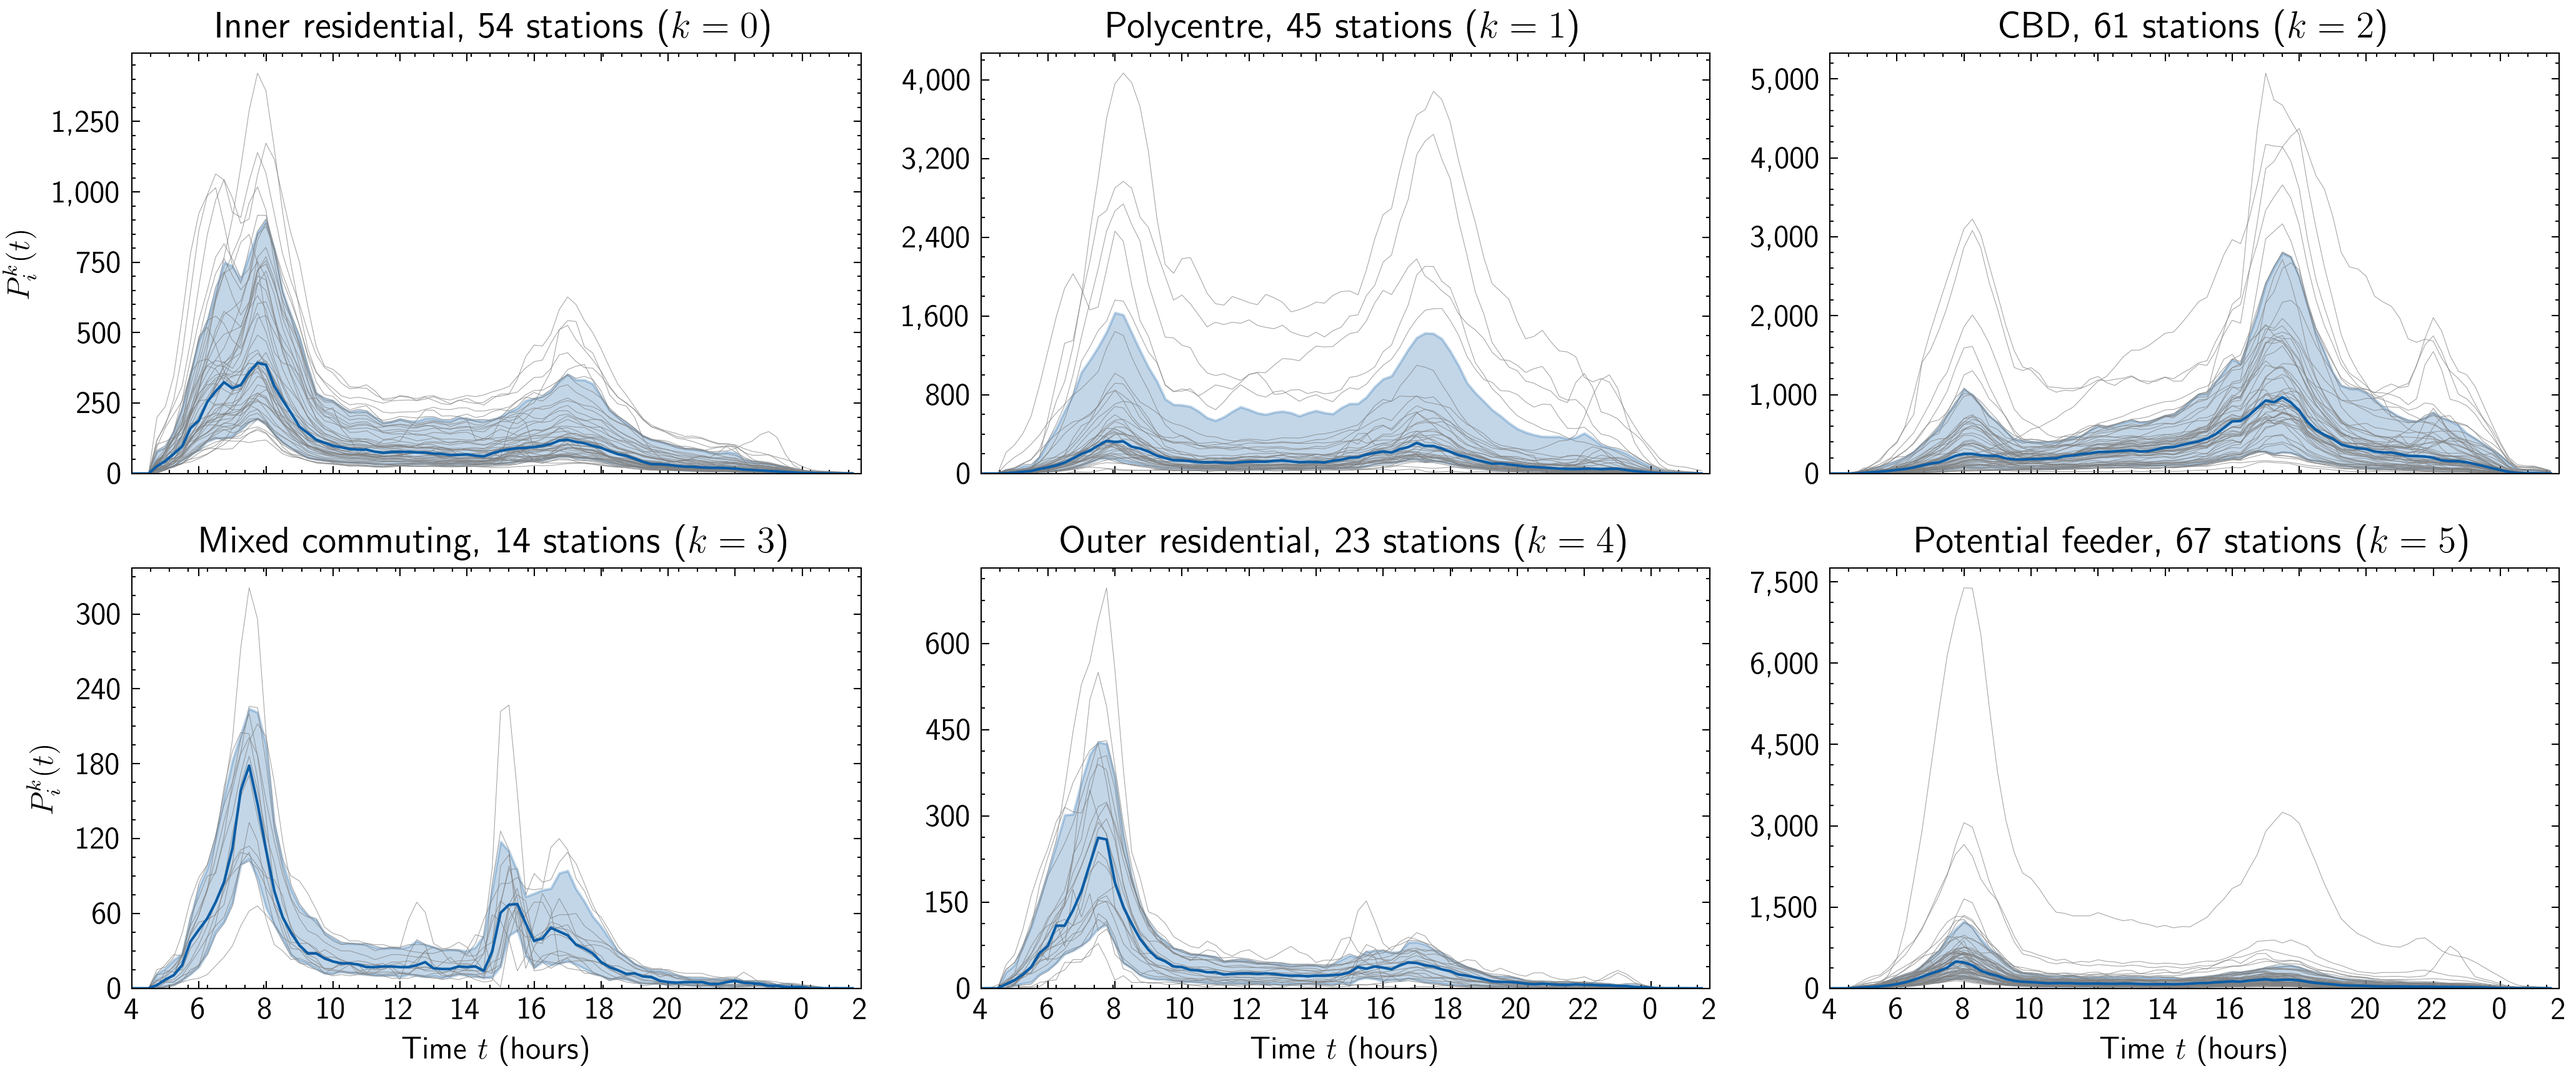
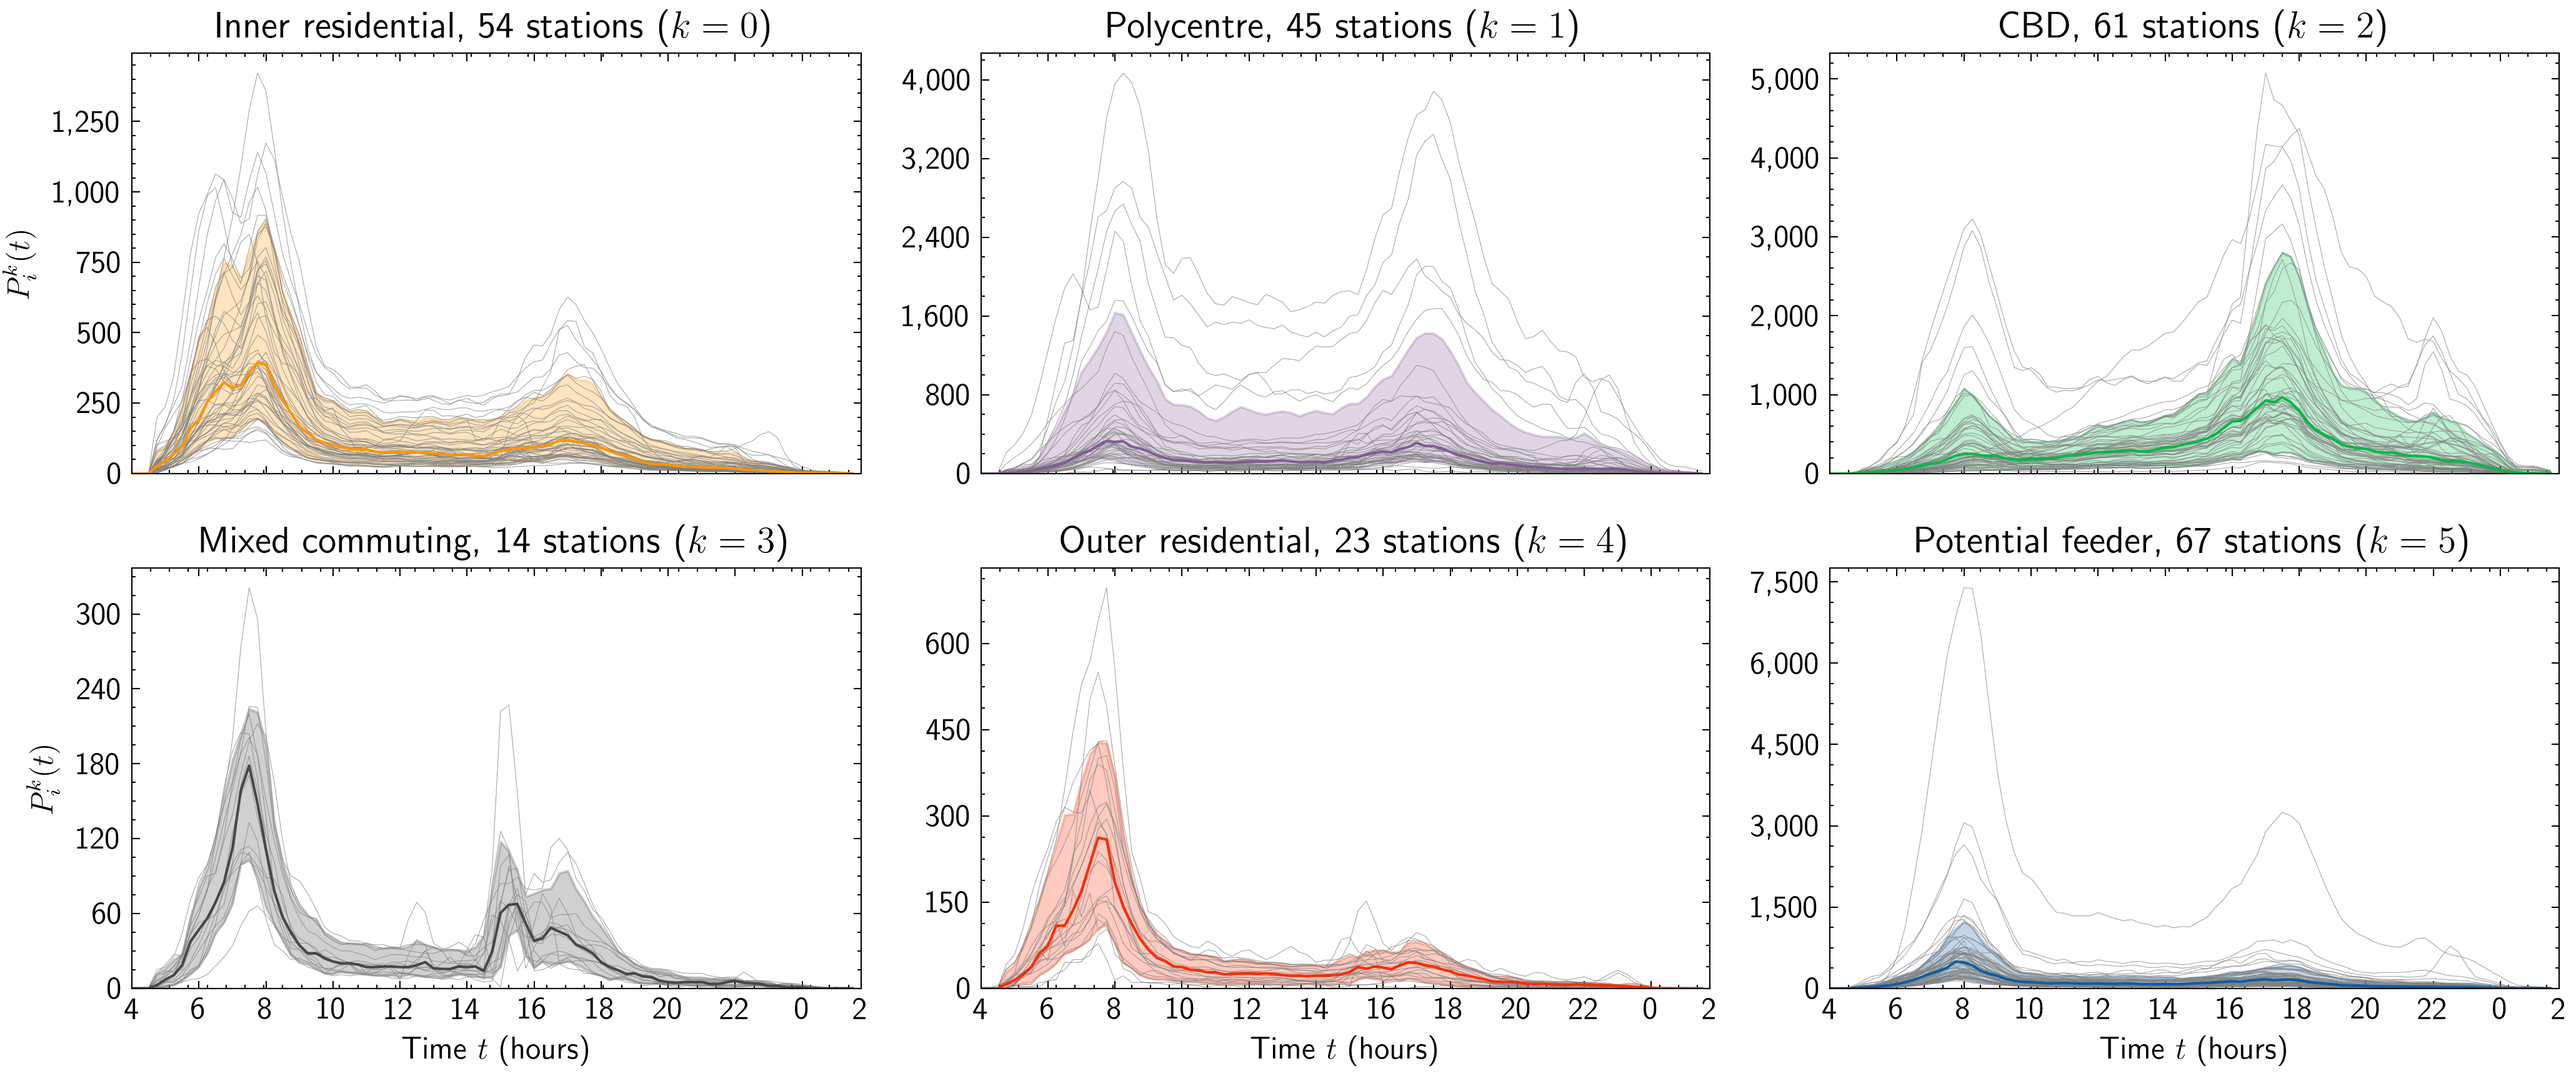
Update figures

diff --git a/src/visualization/visualize.py b/src/visualization/visualize.py
@@ -107,9 +107,14 @@ def plot_counts(gdf, labels, n_components, label_names=None, figsize=(18,8), plo
     '''
     
     result = pd.DataFrame(gdf.loc[:,'0200-0215':'0145-0200'])
+    result['label_name'] = gdf['label_name']
 
     # Assign the cluster labels
     result['labels'] = labels
+    
+    label_names = ["Inner residential", "Polycentre", "CBD", "Mixed commuting", "Outer residential", "Potential feeder"]
+    label_color_map = {"Outer residential": "#FF2C00", "CBD": "#00B945", "Polycentre": "#845B97", 
+                       "Inner residential": "#FF9500", "Potential feeder": "#0C5DA5", "Mixed commuting": "#474747"}
     
     # Plot the results
     ncols = 3
@@ -119,7 +124,9 @@ def plot_counts(gdf, labels, n_components, label_names=None, figsize=(18,8), plo
     for i in range(0, nrows):
         for j in range(0, ncols):
             # Select stations of a certain cluster
-            df = result[result["labels"] == k].drop("labels", axis=1).T
+            df = result[result["labels"] == k]
+            current_label_name = df[df['labels'] == k]['label_name'].iloc[0]
+            df = df.drop(["labels", 'label_name'], axis=1).T
             
             # Plot it
             # With median
@@ -128,8 +135,8 @@ def plot_counts(gdf, labels, n_components, label_names=None, figsize=(18,8), plo
                 median = df.T.median()
                 q1 = df.T.quantile(0.1)
                 q3 = df.T.quantile(0.9)
-                ax[i, j].plot(median.index, median, color='#0C5DA5', linewidth=1)
-                ax[i, j].fill_between(median.index, q1, q3, color='#0C5DA5', alpha=0.25)
+                ax[i, j].plot(median.index, median, color=label_color_map[current_label_name], linewidth=1)
+                ax[i, j].fill_between(median.index, q1, q3, color=label_color_map[current_label_name], alpha=0.25)
             
             # Without
             else:

diff --git a/setup.py b/setup.py
@@ -1,0 +1,10 @@
+from setuptools import find_packages, setup
+
+setup(
+    name='src',
+    packages=find_packages(),
+    version='0.1.0',
+    description='',
+    author='',
+    license='CC-BY-NC-SA-4.0',
+)
